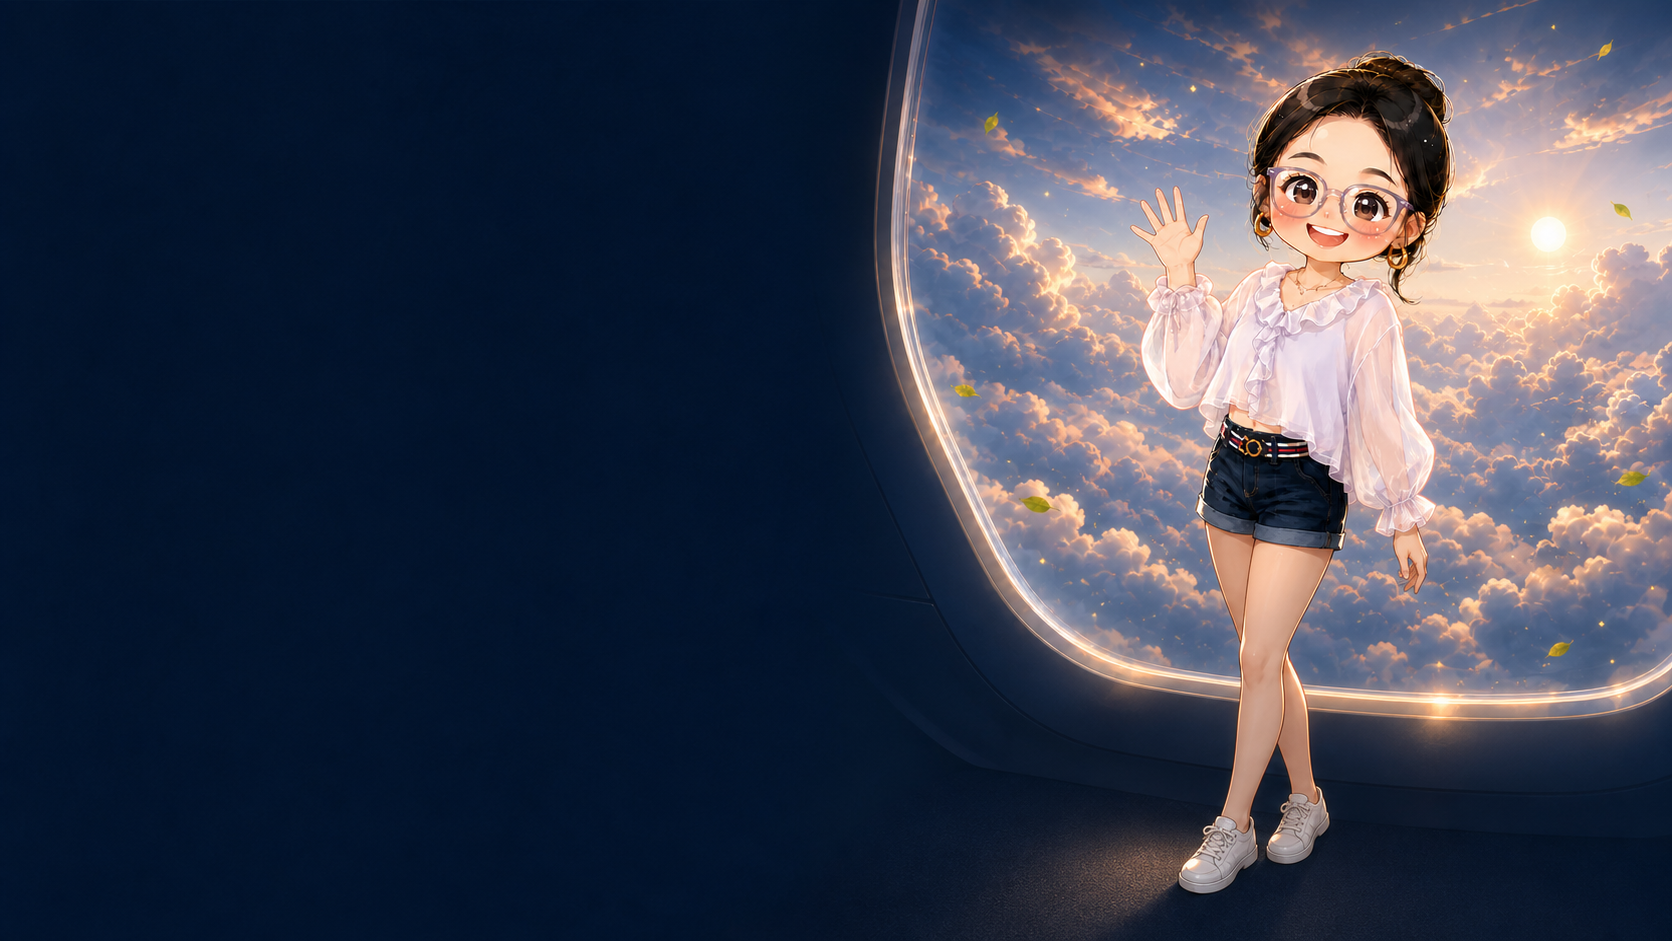
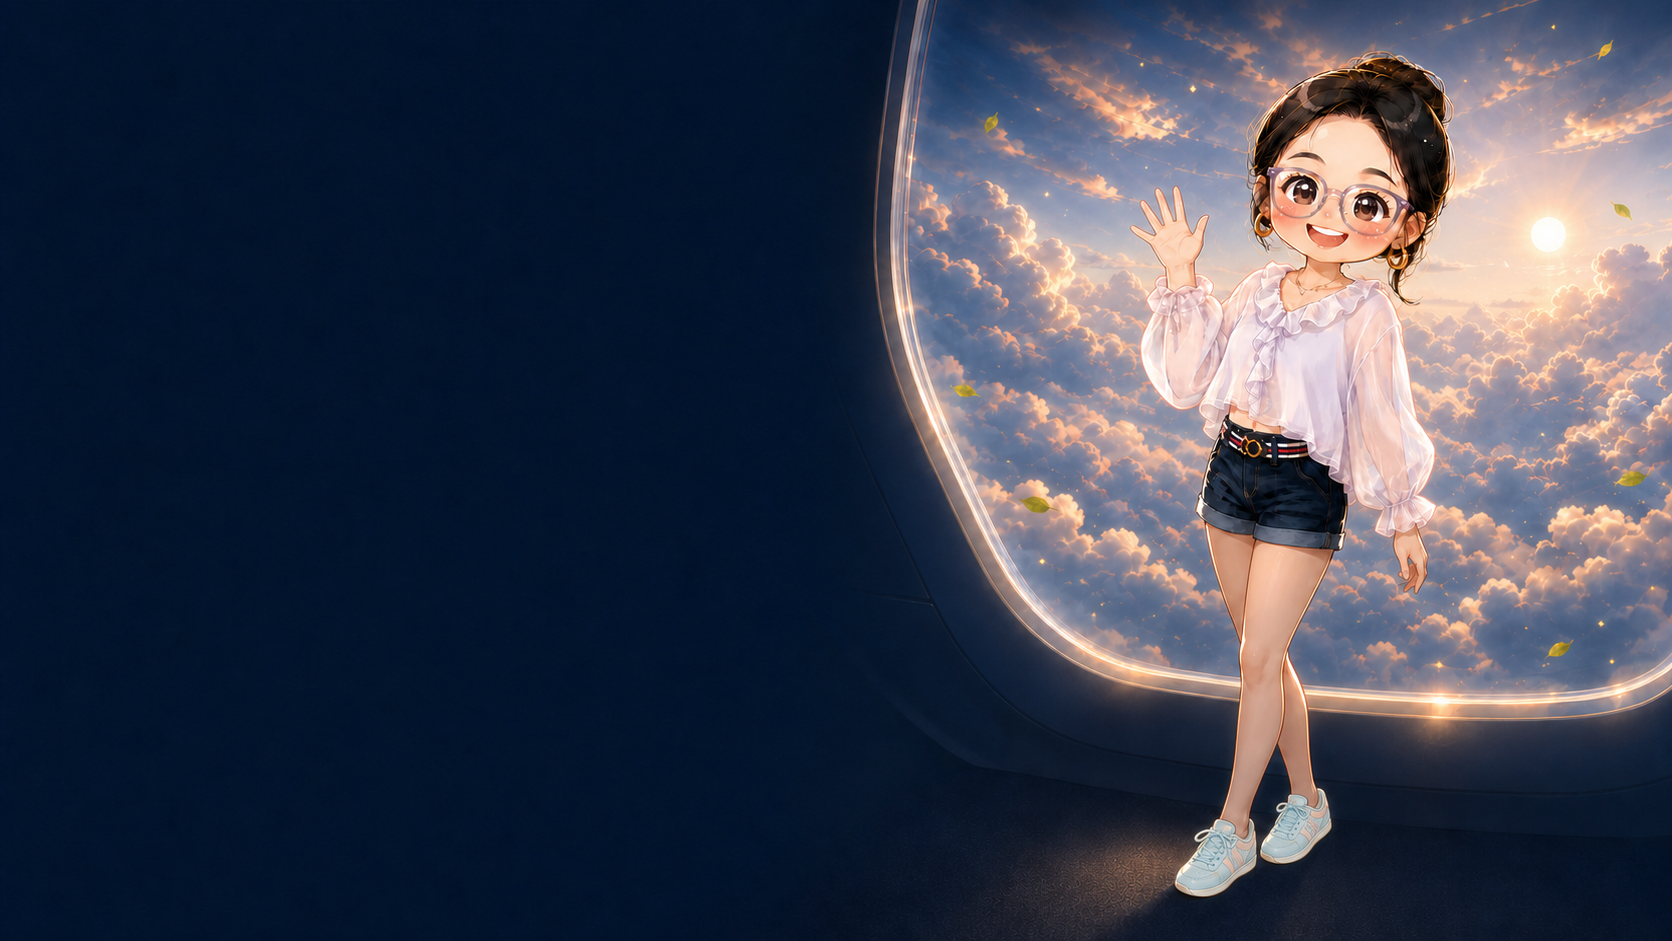
update the signature position

diff --git a/app/refinements.css b/app/refinements.css
@@ -1,10 +1,10 @@
-.hero-title{position:relative;width:max-content}.hero-title h1{position:relative;z-index:1}.hero-signature{position:absolute;z-index:2;right:-230px;bottom:-12px;width:260px;height:auto;mix-blend-mode:screen;pointer-events:none}.project-rail{display:flex;gap:10px}.project-card{position:relative;flex:1;display:block;min-width:0;padding:22px;transition:flex .55s cubic-bezier(.22,1,.36,1),border-color .25s,box-shadow .25s;background:rgba(3,25,44,.82)}.project-card:hover{flex:2.25;border-color:var(--lime);box-shadow:0 0 12px rgba(223,255,33,.8)}.project-copy{position:relative;z-index:2;max-width:100%;transition:max-width .45s}.project-card:hover .project-copy{max-width:31%}.project-card img{position:absolute;left:18px;right:18px;bottom:18px;width:calc(100% - 36px);height:63%;object-fit:cover;transition:left .45s,width .45s,height .45s}.project-card:hover img{left:35%;width:calc(65% - 18px);height:calc(100% - 36px)}.project-card p,.project-card a,.project-tags{opacity:0;transform:translateY(8px);pointer-events:none;transition:opacity .25s,transform .25s}.project-card:hover p,.project-card:hover a,.project-card:hover .project-tags{opacity:1;transform:none;pointer-events:auto}.project-card h3{font-size:24px}.project-tags{display:flex;flex-wrap:wrap;gap:5px;margin-top:12px}.project-tags span{border:1px solid rgba(255,255,255,.3);border-radius:14px;padding:5px 8px;font-size:8px}.socials a{transition:color .2s,padding-left .2s}.socials a:hover{color:var(--lime);padding-left:5px}.socials svg{flex:0 0 auto}
+.hero-title{position:relative;width:max-content}.hero-title h1{position:relative;z-index:1}.hero-signature{position:absolute;z-index:2;right:-115px;bottom:-35px;width:240px;height:auto;mix-blend-mode:screen;pointer-events:none}.project-rail{display:flex;gap:10px}.project-card{position:relative;flex:1;display:block;min-width:0;padding:22px;transition:flex .55s cubic-bezier(.22,1,.36,1),border-color .25s,box-shadow .25s;background:rgba(3,25,44,.82)}.project-card:hover{flex:2.25;border-color:var(--lime);box-shadow:0 0 12px rgba(223,255,33,.8)}.project-copy{position:relative;z-index:2;max-width:100%;transition:max-width .45s}.project-card:hover .project-copy{max-width:31%}.project-card img{position:absolute;left:18px;right:18px;bottom:18px;width:calc(100% - 36px);height:63%;object-fit:cover;transition:left .45s,width .45s,height .45s}.project-card:hover img{left:35%;width:calc(65% - 18px);height:calc(100% - 36px)}.project-card p,.project-card a,.project-tags{opacity:0;transform:translateY(8px);pointer-events:none;transition:opacity .25s,transform .25s}.project-card:hover p,.project-card:hover a,.project-card:hover .project-tags{opacity:1;transform:none;pointer-events:auto}.project-card h3{font-size:24px}.project-tags{display:flex;flex-wrap:wrap;gap:5px;margin-top:12px}.project-tags span{border:1px solid rgba(255,255,255,.3);border-radius:14px;padding:5px 8px;font-size:8px}.socials a{transition:color .2s,padding-left .2s}.socials a:hover{color:var(--lime);padding-left:5px}.socials svg{flex:0 0 auto}
 
 .experience{min-height:1060px;background:radial-gradient(circle at 68% 18%,rgba(19,62,91,.55),transparent 30%),var(--navy)}.experience-heading{grid-template-columns:1.08fr .92fr;gap:54px;align-items:start}.experience h2{font-size:clamp(42px,4.2vw,72px);line-height:.95;margin:24px 0 8px}.experience-script{margin:-4px 0 10px;color:#ffe51f;font:italic 38px Georgia,serif;letter-spacing:-.04em}.cloud-window{height:255px;margin-top:0;border-radius:135px;background:url('/assets/experience-clouds.png') center/cover no-repeat}.timeline{margin-top:28px;padding-left:170px}.timeline:before{left:164px;top:70px;bottom:70px}.timeline-row{min-height:164px;grid-template-columns:1.05fr 1.55fr 1.1fr;gap:34px;padding:28px 32px}.timeline-row time{right:calc(100% + 68px);width:125px}.timeline-dot{right:calc(100% + 20px)}.experience-role span{font:10px var(--font-mono);color:#818a8e}.experience-role h3{font-size:31px;line-height:1;margin:8px 0}.timeline-row>p{margin:0;font-size:15px;line-height:1.55}.experience-skills{display:grid;grid-template-columns:46px 1fr;gap:22px;align-items:center;border-left:1px solid var(--line);padding-left:24px}.experience-skills>svg{width:38px;height:38px;color:var(--lime)}.experience-skills .tag-list{display:grid;grid-template-columns:repeat(2,max-content);gap:7px}
 
 .strength-card .strength-tags{display:flex;flex-direction:column;align-items:flex-start;gap:8px}.strength-tags span{border:1px solid rgba(223,255,33,.75);color:var(--lime);border-radius:20px;padding:6px 16px;font-size:11px;transition:transform .45s cubic-bezier(.22,1,.36,1),background .3s,color .3s,box-shadow .3s}.strength-card.featured{transition:background .35s,color .35s,transform .35s}.strength-card.featured:hover{background:#dfff21;color:var(--navy);transform:translateY(-5px)}.strength-card.featured:hover .num{background:rgba(255,255,255,.65);color:var(--navy);border-color:rgba(3,25,44,.2)}.strength-card.featured:hover .strength-tags{position:relative;height:150px;display:block}.strength-card.featured:hover .strength-tags span{position:absolute;left:7%;width:62%;text-align:center;color:var(--navy);border-color:transparent;font-size:14px;font-weight:700;padding:16px 20px;box-shadow:0 14px 30px rgba(3,25,44,.15)}.strength-card.featured:hover .strength-tags span:nth-child(1){top:0;background:#fff;transform:rotate(5deg)}.strength-card.featured:hover .strength-tags span:nth-child(2){top:50px;left:0;background:var(--navy);color:var(--lime);transform:rotate(-7deg)}.strength-card.featured:hover .strength-tags span:nth-child(3){top:100px;left:16%;background:rgba(255,255,255,.28);transform:rotate(6deg)}.strength-card.featured:hover>svg{color:var(--navy);opacity:.25}
 
-@media(max-width:900px){.hero-signature{right:-70px;bottom:-26px;width:150px}.project-rail{display:block}.project-card{height:100%}.project-card:not(:first-child){display:none}.project-card:hover .project-copy{max-width:100%}.project-card:hover img{left:18px;width:calc(100% - 36px);height:58%}.experience-heading{grid-template-columns:1fr}.timeline{padding-left:0}.timeline-row{grid-template-columns:1fr}.experience-skills{border-left:0;padding-left:0}.strength-card.featured:hover .strength-tags span{width:80%}}
+@media(max-width:900px){.hero-signature{right:80px;bottom:-45px;width:150px}.project-rail{display:block}.project-card{height:100%}.project-card:not(:first-child){display:none}.project-card:hover .project-copy{max-width:100%}.project-card:hover img{left:18px;width:calc(100% - 36px);height:58%}.experience-heading{grid-template-columns:1fr}.timeline{padding-left:0}.timeline-row{grid-template-columns:1fr}.experience-skills{border-left:0;padding-left:0}.strength-card.featured:hover .strength-tags span{width:80%}}
 
 .experience-skills .tag-list{display:flex;flex-wrap:wrap;align-items:center;gap:7px}
 
@@ -37,7 +37,7 @@
 .experience-heading:after{-webkit-mask-image:radial-gradient(ellipse 72% 42% at 58% 78%,#000 18%,transparent 72%);mask-image:radial-gradient(ellipse 72% 42% at 58% 78%,#000 18%,transparent 72%)}
 
 /* Latest annotation pass: tighter section joins and shared Strengths interactions. */
-.about{background-image:url('/assets/about-lareina-shoes.png')}.selected{bottom:70px}.site-footer{border-top:0}.contact-section{height:auto;min-height:0;padding:110px 0 54px}.contact-section .footer-shell{height:auto}.contact-section .footer-main{padding:70px 0 55px}.contact-section .footer-links{margin-top:0}.strength-card{transition:background .35s,color .35s,transform .35s,box-shadow .35s}.strength-card:hover{background:#dfff21;color:var(--navy);transform:translateY(-5px);box-shadow:0 16px 42px rgba(0,0,0,.16)}.strength-card:hover .num{background:rgba(255,255,255,.65);color:var(--navy);border-color:rgba(3,25,44,.2)}.strength-card:hover .strength-tags{position:relative;height:112px;display:block}.strength-card:hover .strength-tags span{position:absolute;left:7%;width:72%;text-align:center;color:var(--navy);border-color:transparent;font-size:12px;font-weight:700;padding:11px 16px;box-shadow:0 12px 26px rgba(3,25,44,.15)}.strength-card:hover .strength-tags span:nth-child(1){top:0;background:#fff;transform:rotate(5deg)}.strength-card:hover .strength-tags span:nth-child(2){top:38px;left:0;background:var(--navy);color:var(--lime);transform:rotate(-7deg)}.strength-card:hover .strength-tags span:nth-child(3){top:76px;left:16%;background:rgba(255,255,255,.35);transform:rotate(6deg)}.strength-card:hover>svg{color:var(--navy);opacity:.25}
+.about{background-image:url('/assets/about-lareina.png')}.selected{bottom:70px}.site-footer{border-top:0}.contact-section{height:auto;min-height:0;padding:110px 0 54px}.contact-section .footer-shell{height:auto}.contact-section .footer-main{padding:70px 0 55px}.contact-section .footer-links{margin-top:0}.strength-card{transition:background .35s,color .35s,transform .35s,box-shadow .35s}.strength-card:hover{background:#dfff21;color:var(--navy);transform:translateY(-5px);box-shadow:0 16px 42px rgba(0,0,0,.16)}.strength-card:hover .num{background:rgba(255,255,255,.65);color:var(--navy);border-color:rgba(3,25,44,.2)}.strength-card:hover .strength-tags{position:relative;height:112px;display:block}.strength-card:hover .strength-tags span{position:absolute;left:7%;width:72%;text-align:center;color:var(--navy);border-color:transparent;font-size:12px;font-weight:700;padding:11px 16px;box-shadow:0 12px 26px rgba(3,25,44,.15)}.strength-card:hover .strength-tags span:nth-child(1){top:0;background:#fff;transform:rotate(5deg)}.strength-card:hover .strength-tags span:nth-child(2){top:38px;left:0;background:var(--navy);color:var(--lime);transform:rotate(-7deg)}.strength-card:hover .strength-tags span:nth-child(3){top:76px;left:16%;background:rgba(255,255,255,.35);transform:rotate(6deg)}.strength-card:hover>svg{color:var(--navy);opacity:.25}
 
 @media(max-width:900px){.selected{bottom:52px}.contact-section{min-height:0;padding:90px 0 38px}.contact-section .footer-shell{height:auto}.contact-section .footer-main{padding:52px 0 42px}.strength-card:hover .strength-tags span{width:80%}}
 

diff --git a/components/SelectedProjects.tsx b/components/SelectedProjects.tsx
@@ -16,7 +16,7 @@ export function SelectedProjects() {
     <div className="project-rail">
       {projects.map(project => <article className="project-card" key={project.title}>
         <div className="project-copy"><small>{project.n} · {project.type}</small><h3>{project.title}</h3><p>{project.copy}</p><div className="project-tags">{project.tags.map(tag => <span key={tag}>{tag}</span>)}</div><a href={project.href} target="_blank" rel="noreferrer">VIEW PROJECT <ArrowUpRight/></a></div>
-        <Image unoptimized src="/assets/taskmosaic.png" alt={`${project.title} project preview`} width={1600} height={1000} style={{ objectPosition: project.imagePosition }}/>
+        <Image unoptimized src="/assets/projects/taskmosaic.png" alt={`${project.title} project preview`} width={1600} height={1000} style={{ objectPosition: project.imagePosition }}/>
       </article>)}
     </div>
     <Link className="more-projects" href="/projects">MORE PROJECTS <ArrowUpRight/></Link>

diff --git a/design-qa.md b/design-qa.md
@@ -13,7 +13,7 @@
 - Strengths and Contact now join without a divider; Contact was reduced to 661px with no gap between its main CTA and link row.
 - All five Strengths cards share the same hover animation selector and rotated keyword treatment.
 - More Projects has 36px of space below it before About begins.
-- About uses the revised `about-lareina-shoes.png` asset with powder-blue and white retro sneakers based on the supplied footwear reference.
+- About uses the revised `about-lareina.png` asset with powder-blue and white retro sneakers based on the supplied footwear reference.
 - Experience now uses a script-style display face, a softly extended raster light trail, and reference-aligned dates, nodes, axis, and cards.
 - Home includes a visible More Projects link between Selected Projects and About.
 - Header brand uses the lime treatment with white text; right-side language controls have additional breathing room.
